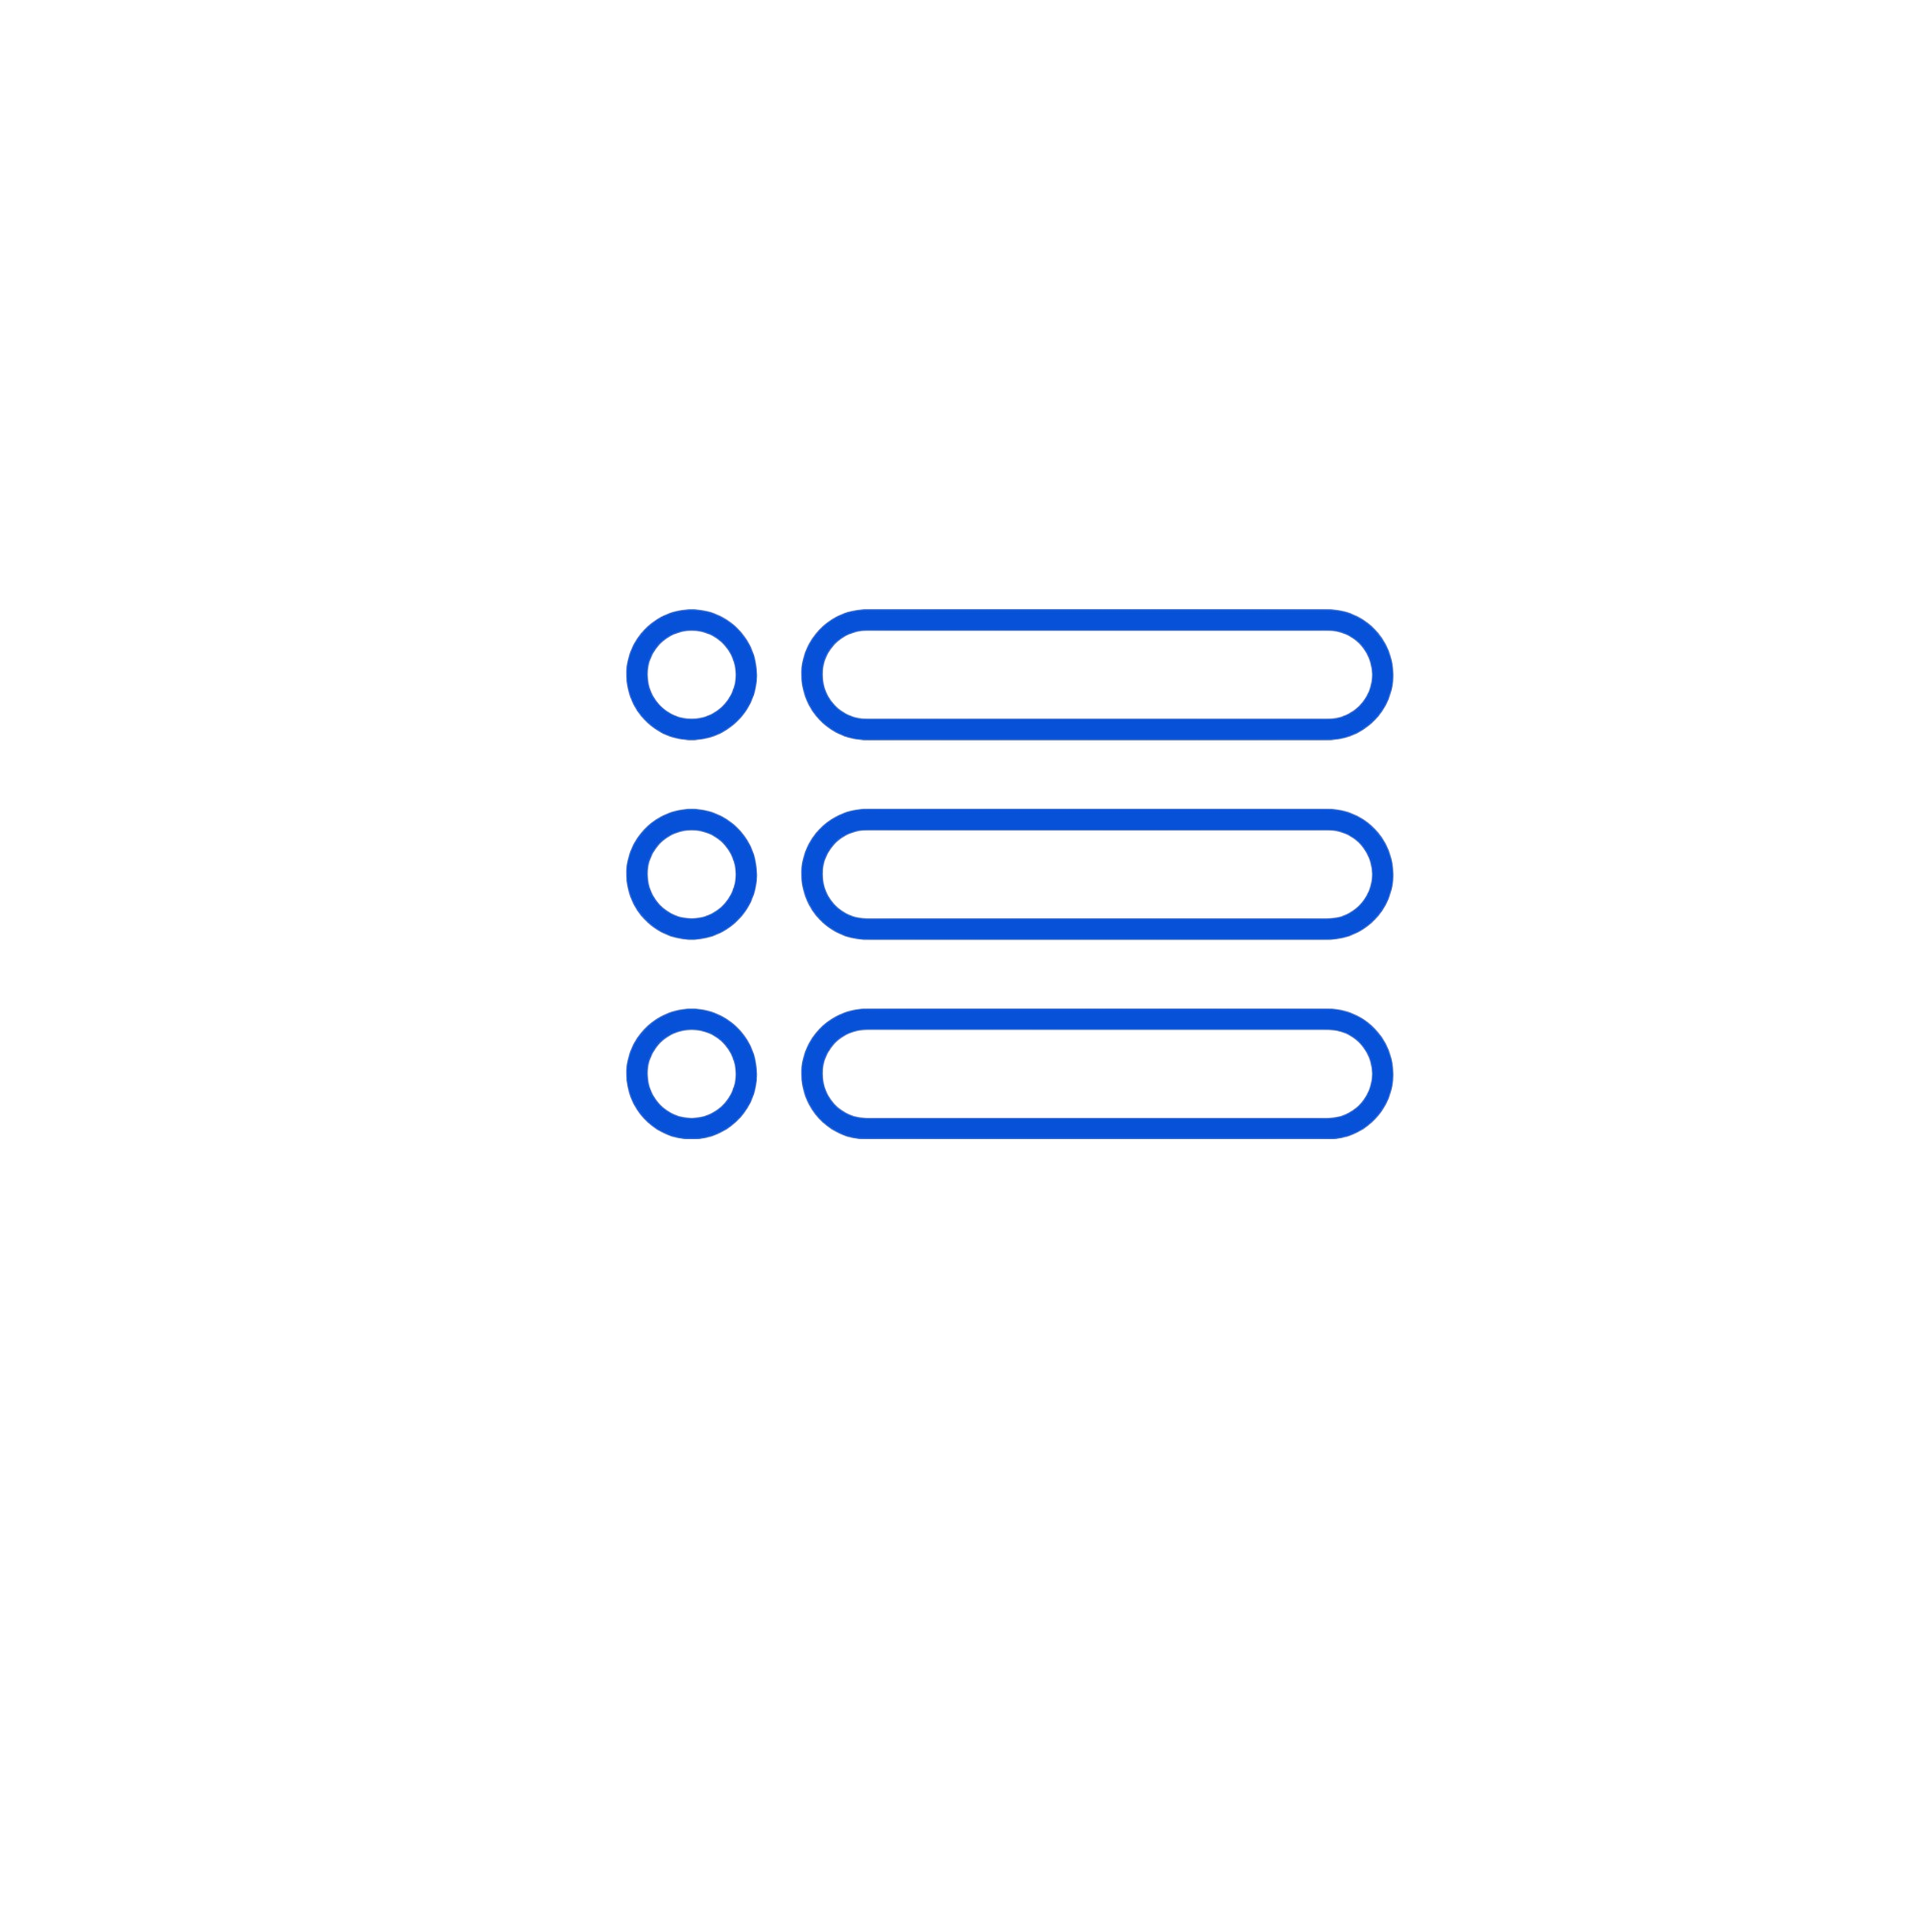
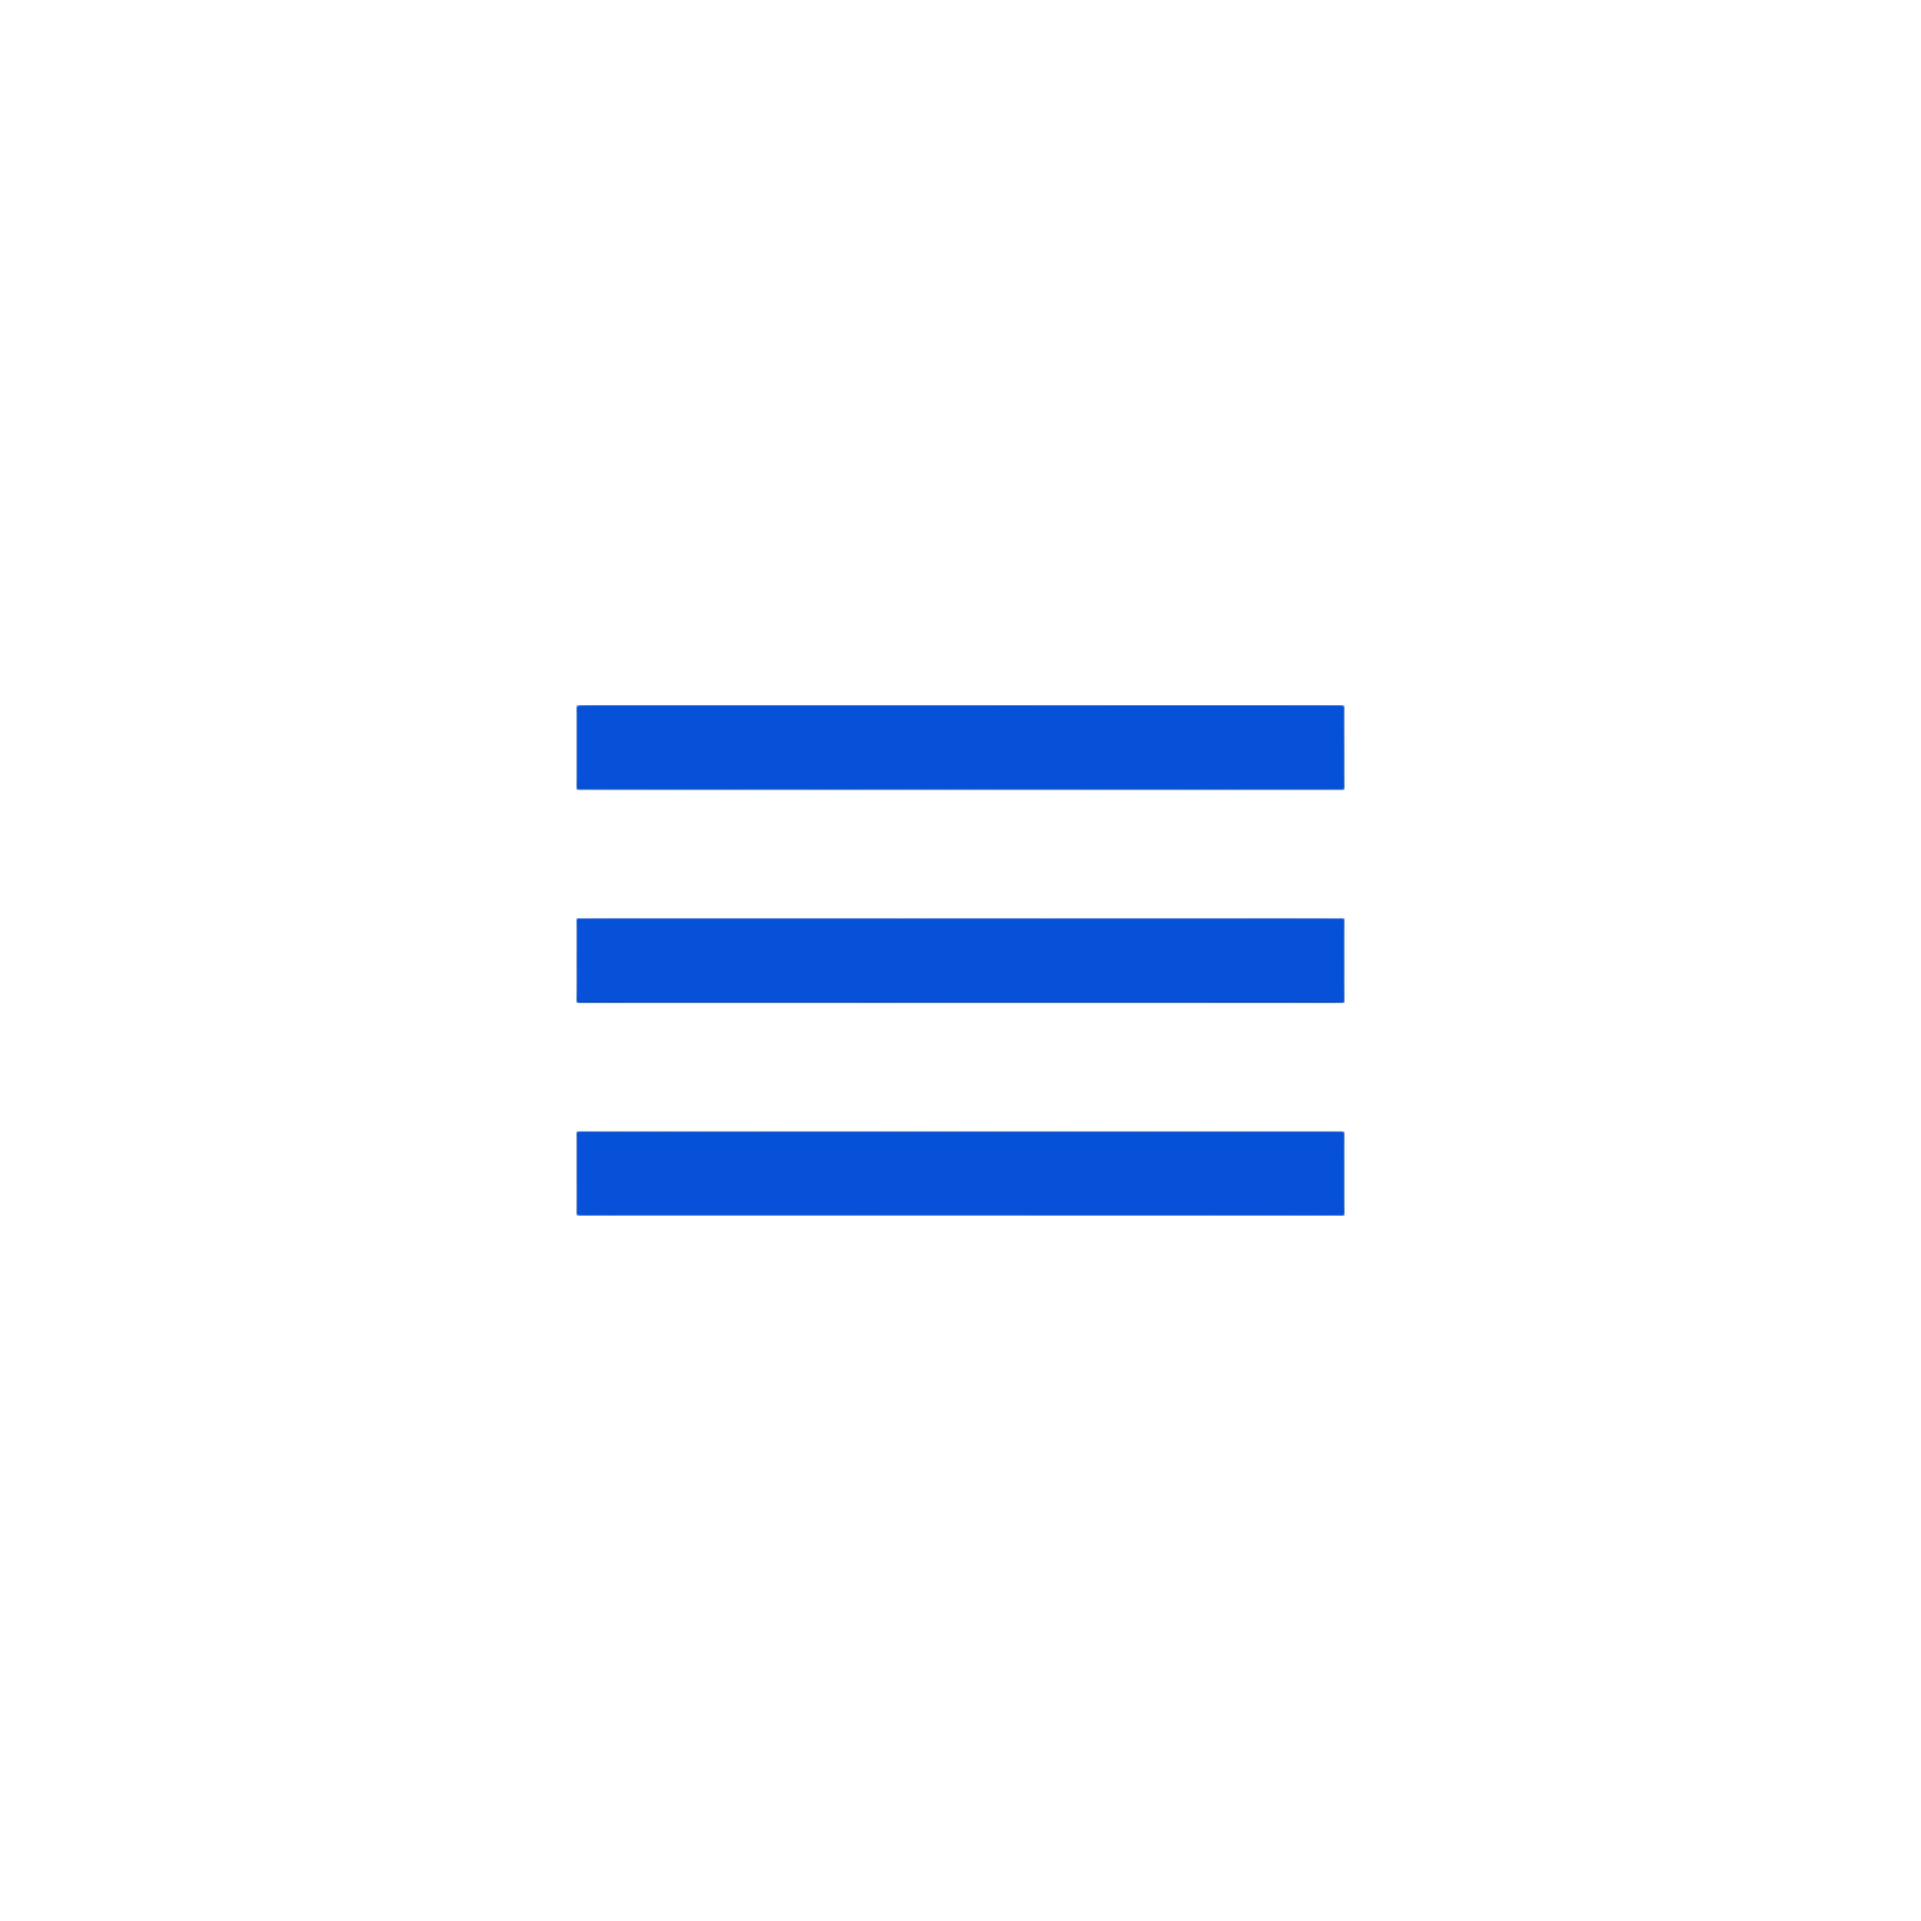
onderwerpen weggehaald

Changed region(s): [[0.279, 0.31, 0.744, 0.651]]

diff --git a/style.css b/style.css
@@ -21,7 +21,6 @@ header {
 
 header img {
   width: 55px;
-
 }
 
 header label img {
@@ -39,7 +38,6 @@ header nav {
   gap: 20px;
   background: #F1E6D6;
 
-  
 }
 
 #menu:checked ~ nav {
@@ -67,24 +65,6 @@ header button {
   position: relative;
 }
 
-.onderwerpen {
-  text-align: center;
-  padding: 15px;
-  background-color: rgba(128, 128, 128, 0.337);
-}
-
-.onderwerpen a {
-  color: black;
-  text-decoration: none;
-  margin: 0 15px;
-  font-size: 14px;
-}
-
-
-.onderwerpen {
-  position: relative;
-  z-index: 2;
-}
 
 
 .hero h1 {

diff --git a/index.html b/index.html
@@ -41,15 +41,6 @@
 <main>
   <section class="hero">
 
-  <div class="onderwerpen">
-    <a href="#">Onderwijs</a>
-    <a href="#">Studenten</a>
-    <a href="#">Onderzoek</a>
-    <a href="#">Technologie</a>
-    <a href="#">Studentenleven</a>
-    <a href="#">Geld</a>
-    <a href="#">Cultuur</a>
-  </div>
 
   <div class="nieuwste-artikelen">
 

diff --git a/README.md b/README.md
@@ -6,12 +6,13 @@ De instructie van deze leertaak staan in de [WIKI](https://github.com/fdnd-task/
 
 
 
-## Inhoudsopgave Readme
+## Inhoudsopgave
 
   * [Beschrijving](#beschrijving)
   * [Kenmerken](#kenmerken)
   * [Bronnen](#bronnen)
   * [Licentie](#licentie)
+  
 
 ## Beschrijving
 <!-- In de Beschrijving staat hoe je project er uit ziet, hoe het werkt en wat je er mee kan. -->
